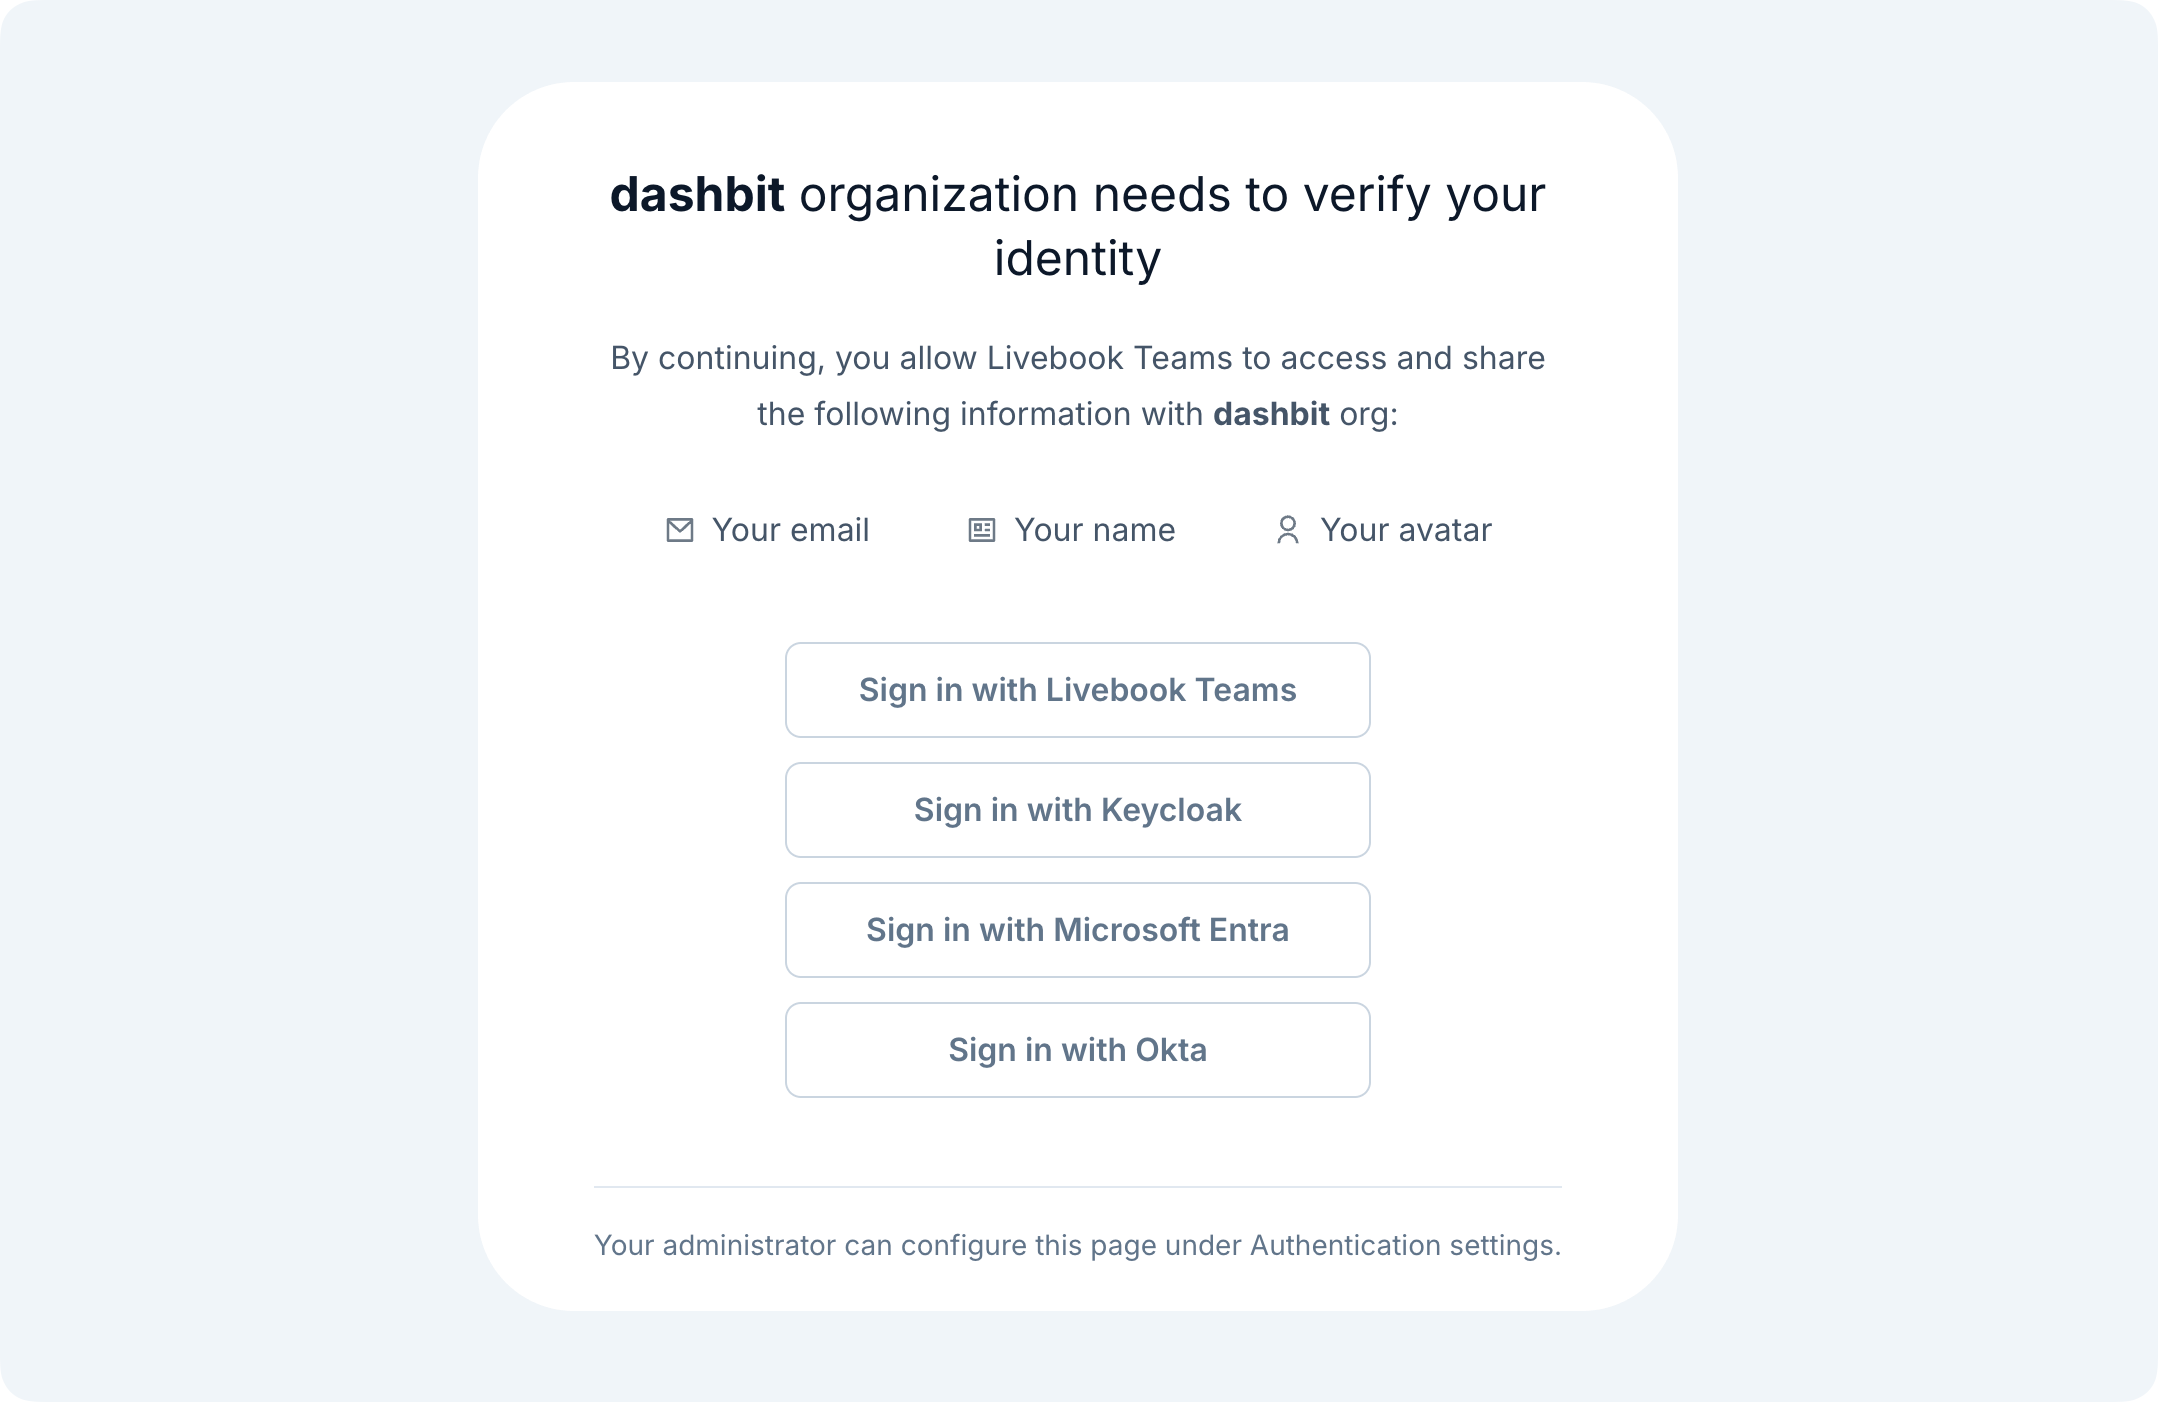
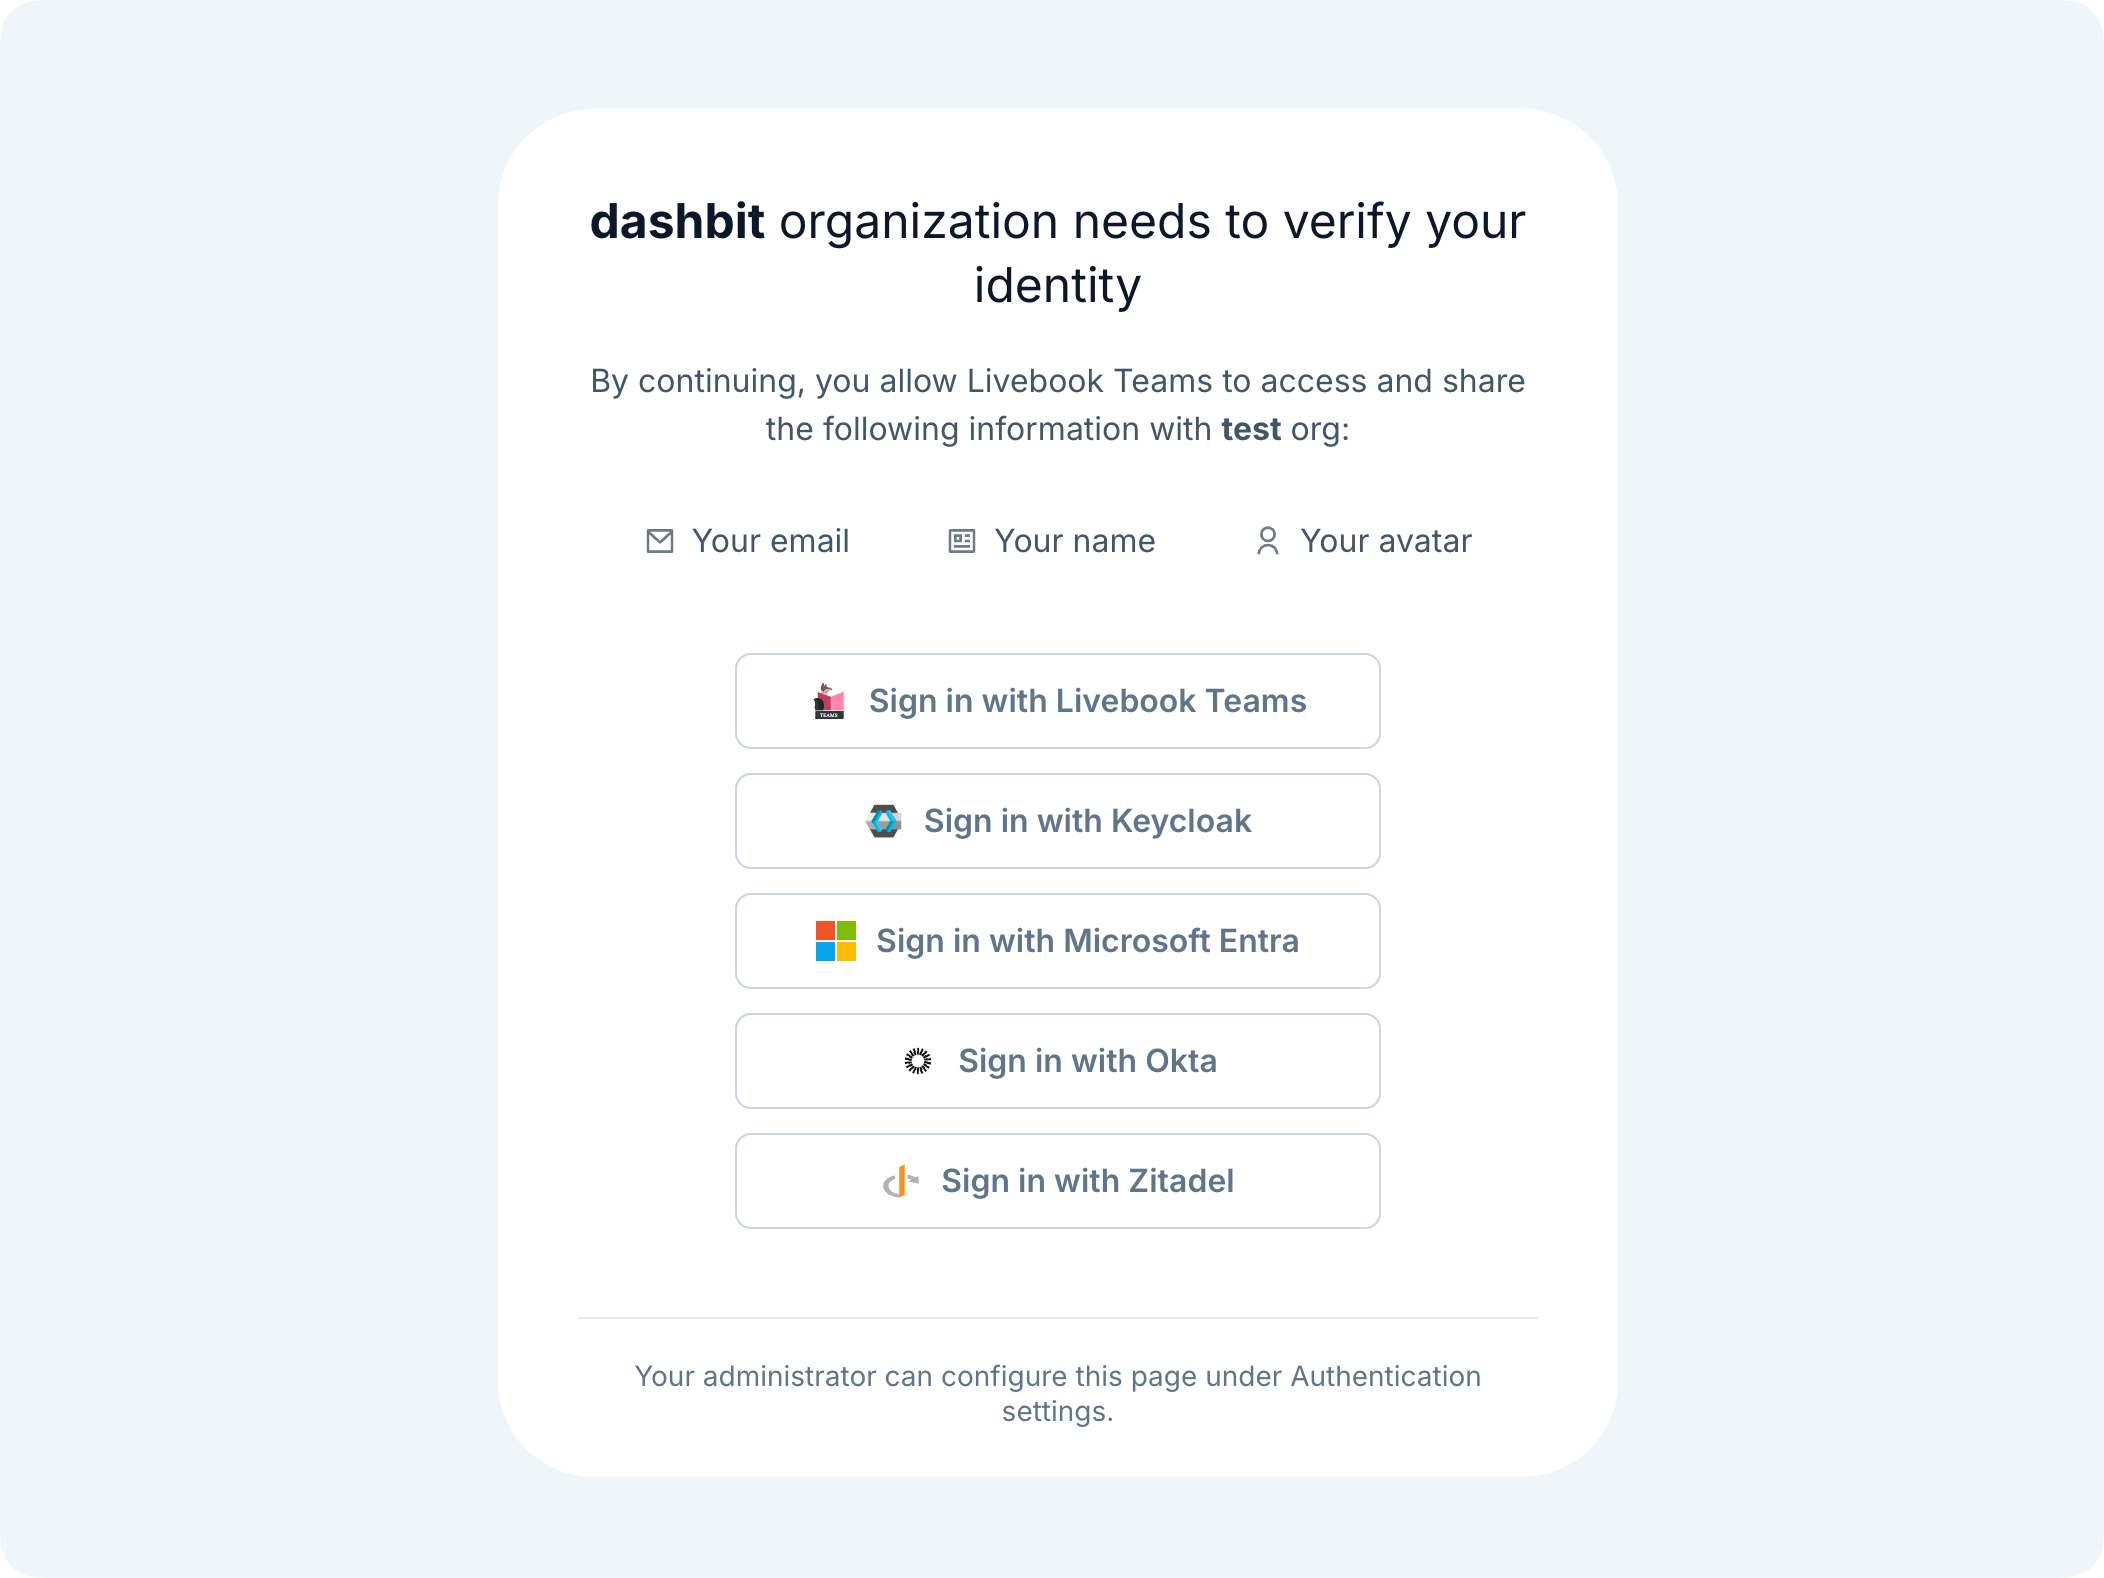
Update screenshot and video with ui changes

diff --git a/docs/teams/oidc_sso.md b/docs/teams/oidc_sso.md
@@ -8,7 +8,7 @@ Livebook Teams supports OpenID Connect (OIDC) Single Sign-On, allowing you to au
 
 Here's a quick demo of the feature working.
 
-<iframe width="560" height="315" src="https://www.youtube-nocookie.com/embed/5Osj2PHj-W4?si=lfH8oggSAOrqaW8n" title="YouTube video player" frameborder="0" allow="accelerometer; autoplay; clipboard-write; encrypted-media; gyroscope; picture-in-picture; web-share" referrerpolicy="strict-origin-when-cross-origin" allowfullscreen></iframe>
+<iframe width="560" height="315" src="https://www.youtube-nocookie.com/embed/rG6OKethdJg?si=qofGf8M10F21IWd5" title="YouTube video player" frameborder="0" allow="accelerometer; autoplay; clipboard-write; encrypted-media; gyroscope; picture-in-picture; web-share" referrerpolicy="strict-origin-when-cross-origin" allowfullscreen></iframe>
 
 ## Configuration
 
